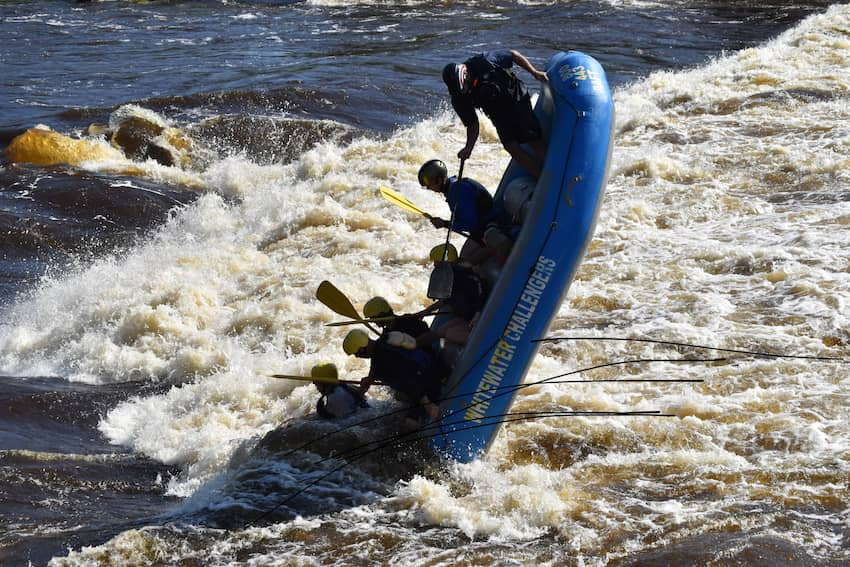
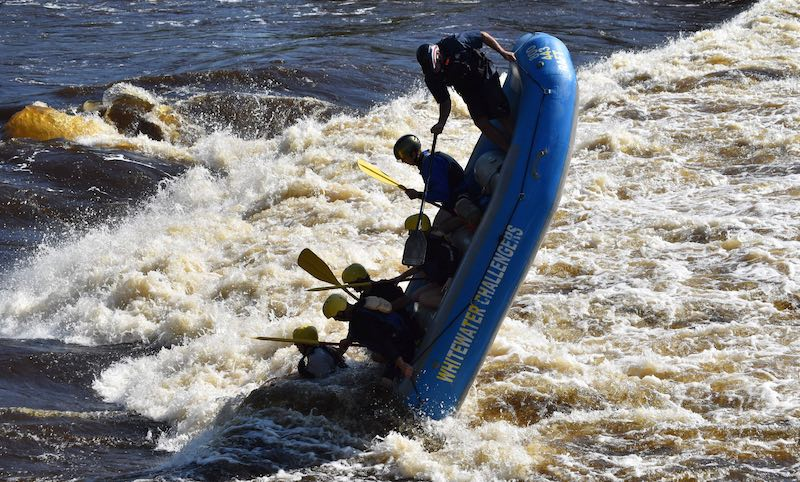
css added to rafting homepage

diff --git a/wwr/about.html b/wwr/about.html
@@ -12,12 +12,17 @@
     <header>
         <img src="images/Copia de GWHITETEXT_WhiteWaterLogo_15092026.png" alt="White Water Rafting Company Logo">
         <nav>
-            <ul>
+            <!-- <ul>
                 <li><a href="index.html">Home Page</a></li>
                 <li><a href="about.html">About Us</a></li>
                 <li><a href="trips.html">Trips</a></li>
                 <li><a href="contact.html">Contact Us</a></li>
-            </ul>
+            </ul> -->
+            
+            <a href="index.html">Home Page</a>
+            <a href="about.html">About Us</a>
+            <a href="trips.html">Trips</a>
+            <a href="contact.html">Contact Us</a>
         </nav>
 
     </header> <!--logo and nav element(4 child tags- index.html, about.html. trips.html, contact.html)-->

diff --git a/wwr/styles/rafting.css b/wwr/styles/rafting.css
@@ -1,0 +1,46 @@
+* {
+    margin: 0;
+    padding: 0;
+    box-sizing: border-box;
+}
+
+:root {
+    /* variables */
+}
+
+header {
+    background-color: rgb(67, 172, 221);
+    text-align: center;
+}
+
+header img {
+    width: 400px;
+    height: auto;
+    border: 2px solid white;
+    padding: 15px;
+    margin-bottom: 25px;
+    margin-top: 15px;
+}
+
+header nav {
+    color: white;
+    margin: 0px 15px 0px 15px;
+    padding-bottom: 25px;
+}
+
+header nav a {
+    padding: 10px 65px 10px 65px;
+    font-size: 1.125rem;
+    border: 2px solid white;
+    color: #f7941d;
+} 
+
+.hero {
+
+}
+
+div img {
+    text-align: center;
+    width: 100%;
+    height:; auto;
+}
